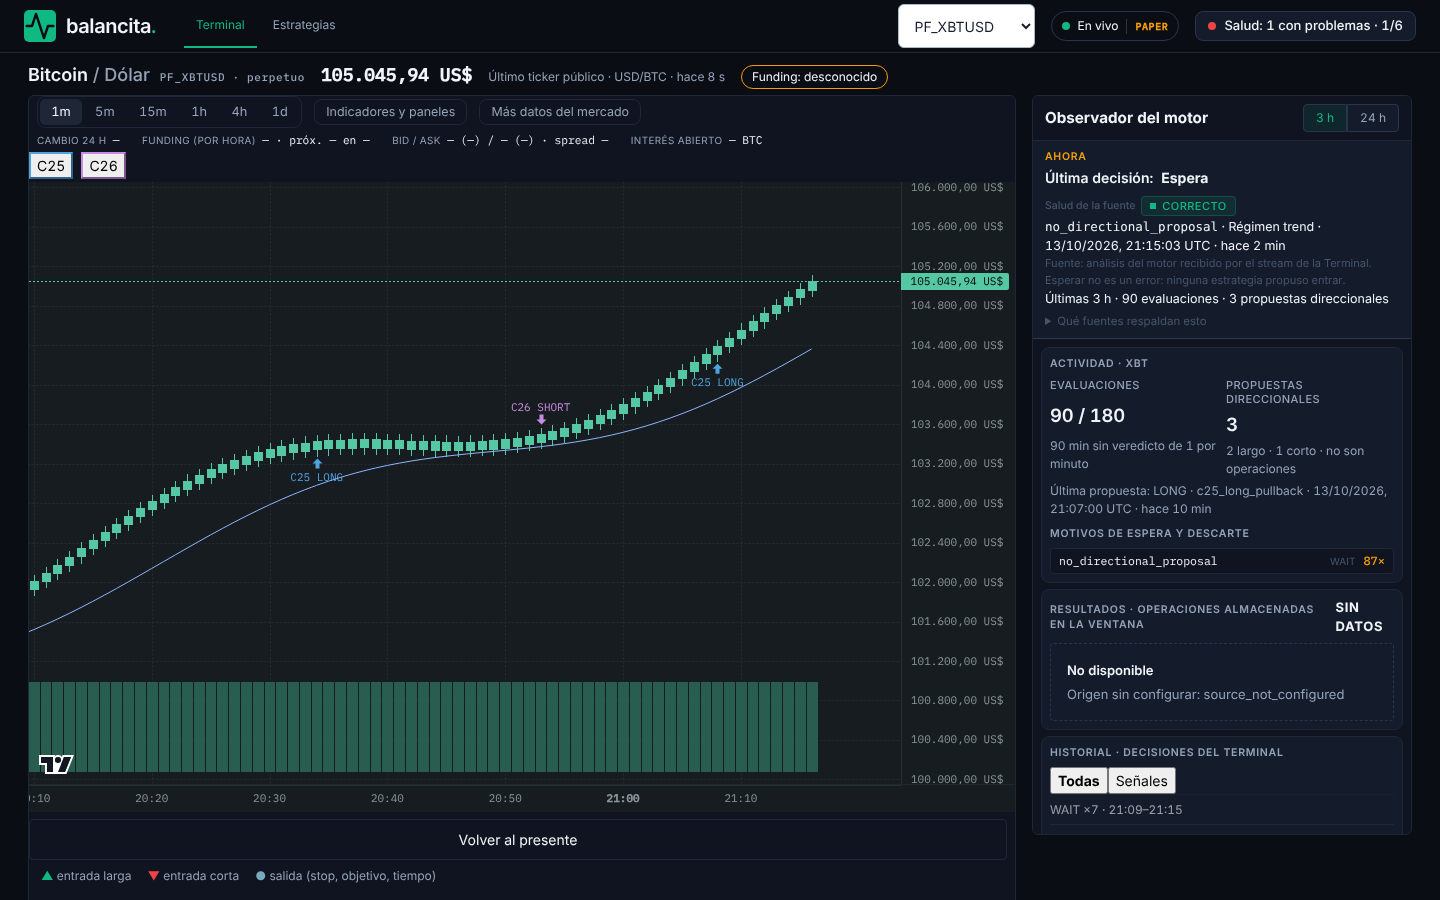
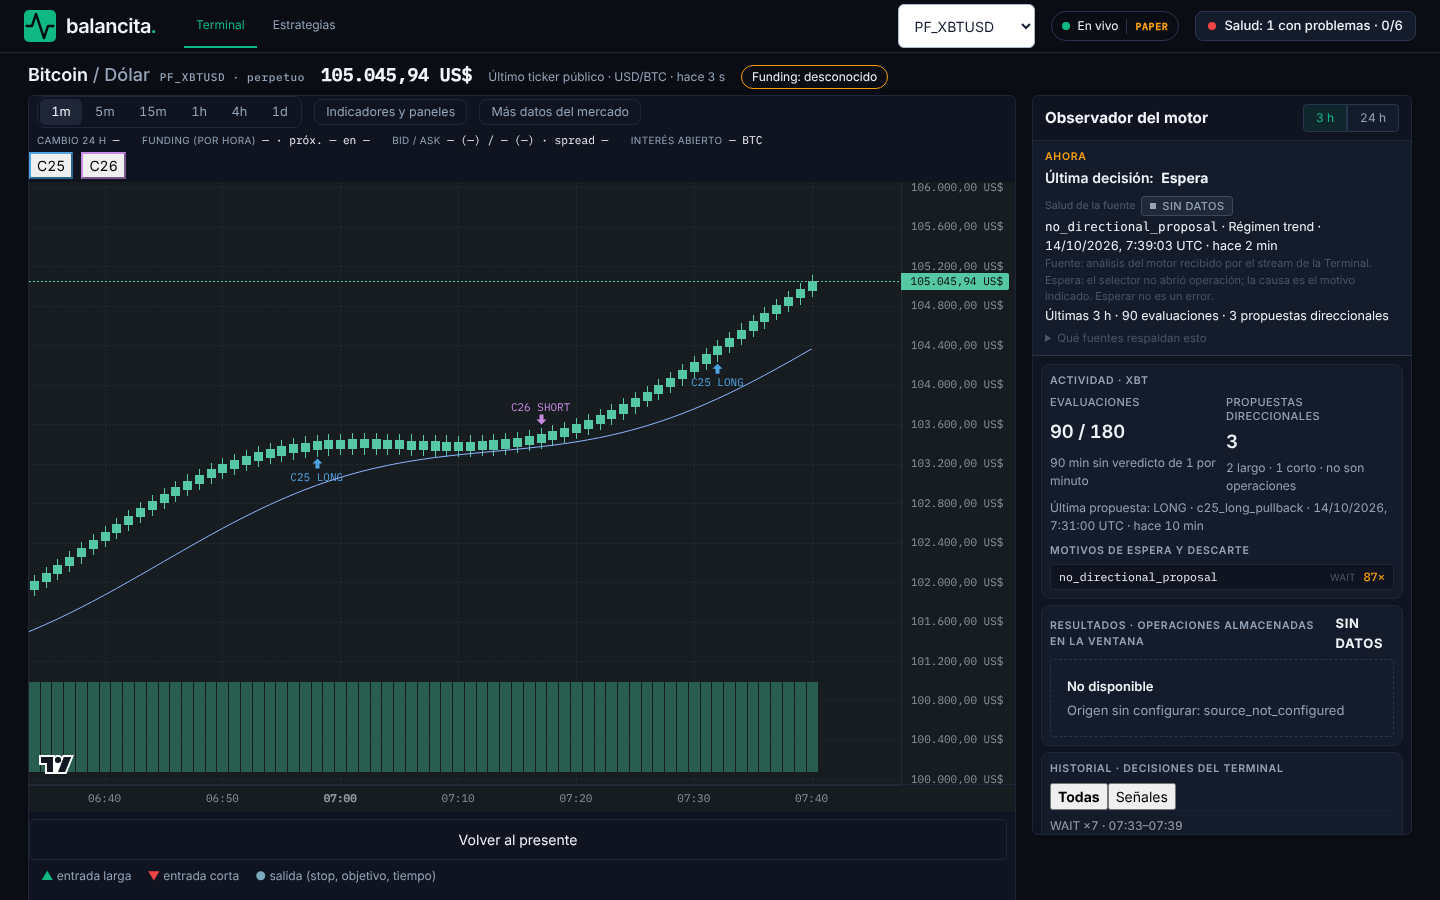
AHORA: solo decisiones recientes del motor; una antigua es histórica; texto de espera neutro

diff --git a/e2e/terminal-ahora-sync.pw.ts b/e2e/terminal-ahora-sync.pw.ts
@@ -78,6 +78,8 @@ test.afterAll(() => {
 })
 
 const hhmm = (ms: number) => new Date(ms).toISOString().slice(11, 16)
+// AHORA prints the hour without a leading zero (es-ES long format).
+const hmm = (ms: number) => hhmm(ms).replace(/^0/, '')
 
 async function markerPositions(chart: Locator) {
   await expect
@@ -107,13 +109,17 @@ test('AHORA shows the last real analysis of the stream, with its source', async 
   const detail = page.getByTestId('now-detail')
   await expect(detail).toContainText('no_directional_proposal')
   await expect(detail).toContainText('Régimen trend')
-  await expect(detail).toContainText(hhmm(newest.decisionTimeMs))
+  await expect(detail).toContainText(hmm(newest.decisionTimeMs))
   await expect(detail).toContainText(/hace \d+ min/)
   await expect(page.getByTestId('now-source')).toContainText(
     'análisis del motor recibido por el stream',
   )
   await expect(page.getByTestId('now-source')).toContainText(
-    'Esperar no es un error',
+    'Espera: el selector no abrió operación',
+  )
+  // It says nothing about proposals the selector may have rejected.
+  await expect(page.getByTestId('now-source')).not.toContainText(
+    'ninguna estrategia',
   )
   // The health of the source (B1) stays a separate fact next to it.
   await expect(page.getByTestId('observer-now')).toContainText(
@@ -153,7 +159,7 @@ test('history rows and chart markers are the same decisions and select each othe
   await expect(chart).toHaveAttribute('data-selected-marker', short.analysisId)
   const detail = page.getByLabel('Decisión seleccionada')
   await expect(detail).toContainText('SHORT')
-  await expect(detail).toContainText(hhmm(short.decisionTimeMs))
+  await expect(detail).toContainText(hmm(short.decisionTimeMs))
   // The selected marker is inside the visible chart.
   const box = (await chart.boundingBox())!
   const selected = (await markerPositions(chart)).find(
@@ -176,7 +182,7 @@ test('history rows and chart markers are the same decisions and select each othe
     }),
   ).toHaveAttribute('aria-pressed', 'true')
   await expect(detail).toContainText('LONG')
-  await expect(detail).toContainText(hhmm(other.decisionTimeMs))
+  await expect(detail).toContainText(hmm(other.decisionTimeMs))
   if (SHOTS)
     await page.screenshot({ path: `${SHOTS}/seleccion-sincronizada.png` })
 })
@@ -218,6 +224,27 @@ test('changing product swaps AHORA, rows and markers; nothing leaks across', asy
   await expect(page.getByTestId('now-action')).toHaveText('Espera')
   await expect(page.getByTestId('now-detail')).toContainText('Régimen trend')
   await expect(chart).toHaveAttribute('data-marker-count', '0')
+})
+
+test('an old verdict of a stopped engine is history, never the current state', async ({
+  page,
+}) => {
+  await openTerminal(page)
+  await page.getByRole('combobox').first().selectOption('PF_ZECUSD')
+  const stale = facts.PF_ZECUSD!.at(-1)!
+  expect(stale.action).toBe('LONG')
+  await expect(page.getByTestId('last-decision')).toContainText('No disponible')
+  await expect(page.getByTestId('now-action')).toHaveCount(0)
+  await expect(page.getByTestId('now-detail')).toHaveCount(0)
+  const historic = page.getByTestId('now-historic')
+  await expect(historic).toContainText('histórica, no es el estado actual')
+  await expect(historic).toContainText('LONG')
+  await expect(historic).toContainText(hmm(stale.decisionTimeMs))
+  await expect(historic).toContainText(/hace (3\d|2\d) min|hace \d+ min/)
+  // A LONG that is not current is not presented as a current proposal.
+  await expect(page.getByTestId('last-decision')).not.toContainText(
+    'propuesta, no operación',
+  )
 })
 
 test('chart controls on real data: timeframes, zoom, navigation, back to present, indicators', async ({

diff --git a/src/features/observability/presentation/ObserverPanel.tsx b/src/features/observability/presentation/ObserverPanel.tsx
@@ -17,7 +17,7 @@ import { utcDateTime } from '../../../shared/finance/format.ts'
 import { duration, momentLabel, shortProduct, sideLabel } from './format.ts'
 import { LABEL, TONE } from './health-view.ts'
 import type { HealthRead } from './HealthIndicator.tsx'
-import type { LatestDecision } from './latest-decision.ts'
+import { decisionStanding, type LatestDecision } from './latest-decision.ts'
 
 const WINDOW_LABELS: Record<ActivityWindow, string> = {
   '3h': '3 h',
@@ -49,7 +49,7 @@ function decisionLabel(action: string): string {
 function Now({
   report,
   health,
-  latest,
+  latest: known,
   nowMs,
 }: {
   report: ActivityReport | null
@@ -57,6 +57,10 @@ function Now({
   latest: LatestDecision | null
   nowMs: number
 }) {
+  // Only a fresh analysis describes the engine now; an old one is history.
+  const standing = known ? decisionStanding(known, nowMs) : null
+  const latest = standing === 'current' ? known : null
+  const historic = standing === 'historic' ? known : null
   const decisions = health.data?.components.find((c) => c.id === 'decisions')
   const mine =
     report?.evaluations.state === 'ok' && report.product
@@ -104,8 +108,28 @@ function Now({
             {' '}
             Fuente: análisis del motor recibido por el stream de la Terminal
             {latest.action === 'WAIT'
-              ? '. Esperar no es un error: ninguna estrategia propuso entrar.'
+              ? '. Espera: el selector no abrió operación; la causa es el motivo indicado. Esperar no es un error.'
               : '.'}
+          </small>
+        </p>
+      )}
+      {historic && (
+        <p className="obs-summary" data-testid="now-historic">
+          Última decisión conocida (histórica, no es el estado actual):{' '}
+          {decisionLabel(historic.action)}
+          {historic.reasonCode ? (
+            <>
+              {' · '}
+              <code>{historic.reasonCode}</code>
+            </>
+          ) : null}
+          {' · '}
+          {utcDateTime(historic.decisionTimeMs)} · hace{' '}
+          {duration(nowMs - historic.decisionTimeMs)}
+          <small className="obs-now__source">
+            {' '}
+            Fuente: análisis del motor guardado; el motor actual no entregó uno
+            reciente.
           </small>
         </p>
       )}

diff --git a/src/features/observability/presentation/Observability.test.tsx b/src/features/observability/presentation/Observability.test.tsx
@@ -210,12 +210,62 @@ describe('ObserverPanel (right column)', () => {
     expect(detail).toHaveTextContent('Régimen range')
     expect(detail).toHaveTextContent('hace 2 min')
     expect(screen.getByTestId('now-source')).toHaveTextContent(
+      'Espera: el selector no abrió operación',
+    )
+    expect(screen.getByTestId('now-source')).not.toHaveTextContent(
+      'ninguna estrategia',
+    )
+    expect(screen.getByTestId('now-source')).toHaveTextContent(
       'análisis del motor recibido por el stream',
     )
     // Waiting is not an error and not a proposal.
     expect(screen.getByTestId('observer-now')).not.toHaveTextContent(
       'propuesta, no operación',
     )
+  })
+
+  it('shows an old analysis as history, not as the current decision', async () => {
+    serve({ activity: quiet })
+    render(
+      <Observer
+        latest={{
+          action: 'LONG',
+          reasonCode: 'c25_long_pullback',
+          regime: 'trend',
+          decisionTimeMs: 1_791_000_240_000 - 3_600_000,
+          bucketStartMs: null,
+        }}
+      />,
+    )
+    await screen.findByTestId('observer-now')
+    expect(screen.getByTestId('last-decision')).toHaveTextContent(
+      'No disponible',
+    )
+    expect(screen.queryByTestId('now-action')).toBeNull()
+    expect(screen.getByTestId('now-historic')).toHaveTextContent(
+      'histórica, no es el estado actual',
+    )
+    expect(screen.getByTestId('now-historic')).toHaveTextContent('hace 1 h')
+  })
+
+  it('does not show a decision dated in the future of this clock', async () => {
+    serve({ activity: quiet })
+    render(
+      <Observer
+        latest={{
+          action: 'LONG',
+          reasonCode: 'x',
+          regime: null,
+          decisionTimeMs: 1_791_000_240_000 + 600_000,
+          bucketStartMs: null,
+        }}
+      />,
+    )
+    await screen.findByTestId('observer-now')
+    expect(screen.getByTestId('last-decision')).toHaveTextContent(
+      'No disponible',
+    )
+    expect(screen.queryByTestId('now-historic')).toBeNull()
   })
 
   it('labels a LONG or SHORT as a proposal, never as an operation', async () => {

diff --git a/e2e/support/seed-gateway-engine.ts b/e2e/support/seed-gateway-engine.ts
@@ -102,15 +102,19 @@ const closers: Array<() => void> = []
 const verdicts = new VerdictsDb(box.dir, closers)
 const account = new AccountDb(box.dir, closers)
 const latest = now - (now % MINUTE) - 3 * MINUTE
+const STOPPED_MINUTES: Record<string, number> = { PF_ZECUSD: 30 }
 const bucketAt = (i: number) => latest - i * MINUTE
 /** Planned non-WAIT verdicts by product (minutes back from the latest). */
 const PLAN: Record<string, Record<number, 'LONG' | 'SHORT'>> = {
   PF_XBTUSD: { 7: 'LONG', 22: 'SHORT', 41: 'LONG' },
   PF_ETHUSD: { 0: 'SHORT', 15: 'LONG' },
+  PF_ZECUSD: { 0: 'LONG' },
 }
 const facts: Record<string, unknown> = {}
 for (const product of PRODUCTS) {
   const plan = PLAN[product] ?? {}
+  // A product whose engine stopped long ago: its newest verdict is history.
+  const at = (i: number) => bucketAt(i + (STOPPED_MINUTES[product] ?? 0))
   const summary: unknown[] = []
   for (let i = 89; i >= 0; i -= 1) {
     const action = plan[i] ?? 'WAIT'
@@ -121,7 +125,7 @@ for (const product of PRODUCTS) {
           ? 'c25_long_pullback'
           : 'c26_short_reversion'
     verdicts.add(
-      bucketAt(i),
+      at(i),
       action,
       {
         regime: product === 'PF_ETHUSD' ? 'range' : 'trend',
@@ -136,7 +140,7 @@ for (const product of PRODUCTS) {
                 : 'c26-reversion-perp-v1',
           reason_code: reason,
         },
-        verdict_hash: `${product}-${bucketAt(i)}`,
+        verdict_hash: `${product}-${at(i)}`,
       },
       product,
     )
@@ -144,9 +148,9 @@ for (const product of PRODUCTS) {
       summary.push({
         action,
         reason,
-        bucket: bucketAt(i),
-        decisionTimeMs: bucketAt(i) + 63_000,
-        analysisId: `${product}-${bucketAt(i)}`,
+        bucket: at(i),
+        decisionTimeMs: at(i) + 63_000,
+        analysisId: `${product}-${at(i)}`,
       })
   }
   facts[product] = summary

diff --git a/src/features/observability/presentation/latest-decision.test.ts b/src/features/observability/presentation/latest-decision.test.ts
@@ -2,6 +2,17 @@ import { describe, expect, it } from 'vitest'
 import { latestDecision } from './latest-decision.ts'
 
 describe('latestDecision', () => {
+  it('ignores an analysis whose origin is not the engine verdicts', () => {
+    expect(
+      latestDecision([{ action: 'LONG', decision_time_ms: 5_000 }]),
+    ).toBeNull()
+    expect(
+      latestDecision([
+        { action: 'LONG', decision_time_ms: 5_000, runtime_version: 'other' },
+      ]),
+    ).toBeNull()
+  })
+
   it('is null without real analyses', () => {
     expect(latestDecision([])).toBeNull()
     expect(latestDecision([null, 3, 'x', {}])).toBeNull()
@@ -10,13 +21,18 @@ describe('latestDecision', () => {
   it('takes the newest decision by its time, not by position', () => {
     const found = latestDecision([
       {
+        runtime_version: 'futures-verdict.v1',
         action: 'LONG',
         reason_code: 'c25_long',
         regime: 'trend',
         decision_time_ms: 2_000,
         bucket_start_ms: 1_000,
       },
-      { action: 'WAIT', decision_time_ms: 1_000 },
+      {
+        runtime_version: 'futures-verdict.v1',
+        action: 'WAIT',
+        decision_time_ms: 1_000,
+      },
     ])
     expect(found).toEqual({
       action: 'LONG',
@@ -40,6 +56,7 @@ describe('latestDecision', () => {
     expect(
       latestDecision([
         {
+          runtime_version: 'futures-verdict.v1',
           decision_time_ms: 9,
           selector: { action: 'short', reason_code: 'r' },
         },

diff --git a/src/features/observability/presentation/latest-decision.ts b/src/features/observability/presentation/latest-decision.ts
@@ -29,6 +29,7 @@ export function latestDecision(
         ? (analysis.selector as Record<string, unknown>)
         : {}
     const action = text(analysis.action) ?? text(selector.action)
+    if (analysis.runtime_version !== VERDICT_RUNTIME) continue
     if (!Number.isSafeInteger(time) || action === null) continue
     if (best !== null && Number(time) < best.decisionTimeMs) continue
     best = {
@@ -42,4 +43,31 @@ export function latestDecision(
     }
   }
   return best
+}
+
+/**
+ * Provenance the gateway stamps on every analysis it builds from the engine's
+ * verdicts (`runtime_version` in paper-engine-follower.ts). An analysis
+ * without it is not shown in AHORA: its origin cannot be proven.
+ */
+export const VERDICT_RUNTIME = 'futures-verdict.v1'
+
+/** A verdict is one per minute: three missed cycles and it is no longer «now». */
+export const CURRENT_MAX_AGE_MS = 180_000
+const CLOCK_SKEW_MS = 5_000
+
+export type DecisionStanding = 'current' | 'historic' | 'unprovable'
+
+/**
+ * `current`: fresh enough to describe the engine now. `historic`: real but
+ * old (the verdicts DB keeps the last 100 after a stop). `unprovable`: dated
+ * in the future of this clock, so its age cannot be told.
+ */
+export function decisionStanding(
+  decision: LatestDecision,
+  nowMs: number,
+): DecisionStanding {
+  const age = nowMs - decision.decisionTimeMs
+  if (age < -CLOCK_SKEW_MS) return 'unprovable'
+  return age > CURRENT_MAX_AGE_MS ? 'historic' : 'current'
 }
